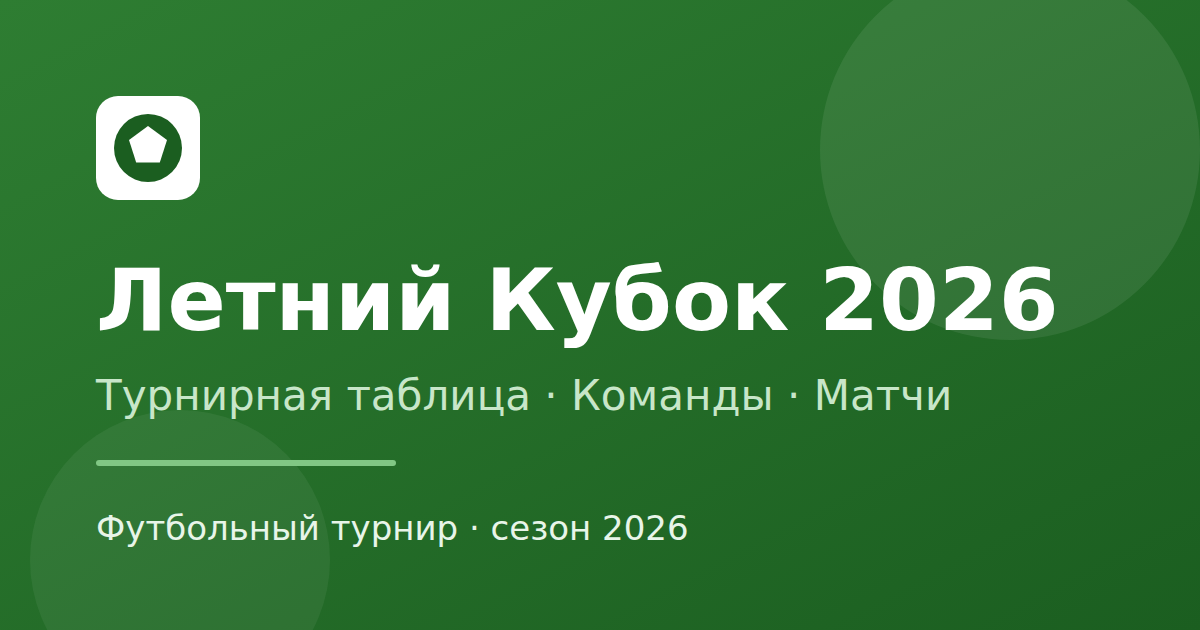
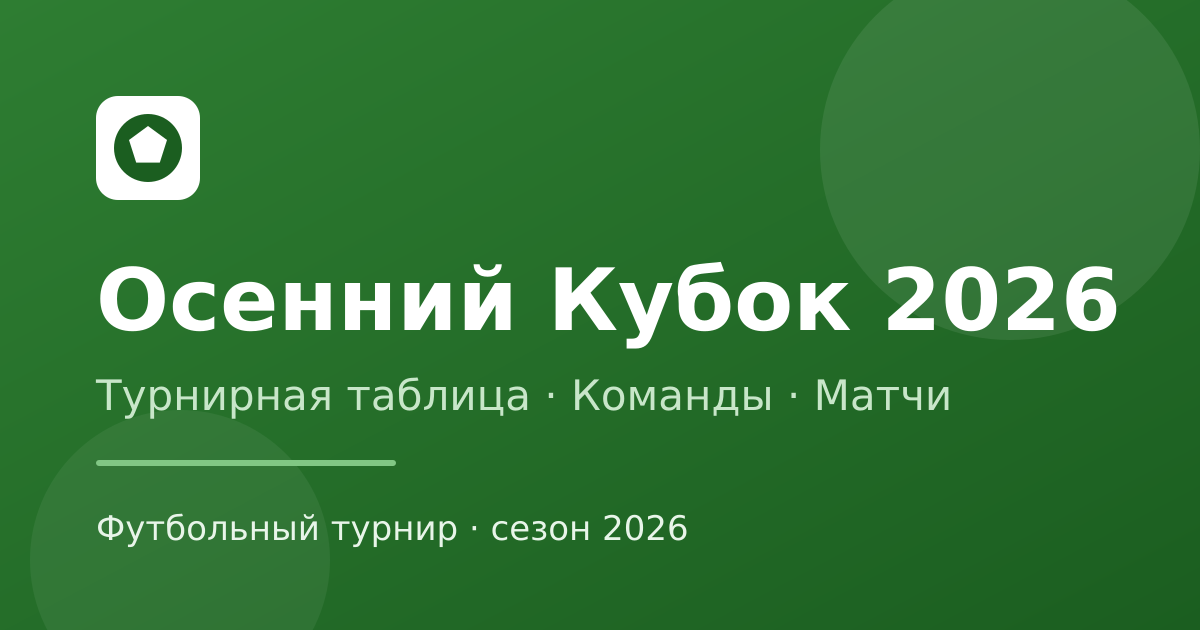
Название турнира изменено: «Летний Кубок» → «Осенний Кубок»
Заменено во всех местах: заголовок страницы (шапка и баннер на главной), описание для поиска,\nзаголовок и описание предпросмотра в соцсетях, подпись турнирной таблицы (для скринридеров),\nподвал сайта и картинка предпросмотра assets/og-image.png (перерисована из og-image.svg).\nПадежи учтены: «Осеннего Кубка 2026». Старое название не встречается ни в одном файле.\nПроверено на 390px и на 17 ширинах (320-1440): переполнения нет, картинка отдаётся как image/png.

diff --git a/index.html b/index.html
@@ -10,15 +10,15 @@
     <title>Футбольный турнир 2026 — таблица, команды, матчи</title>
 
     <!-- SEO и предпросмотр в соцсетях -->
-    <meta name="description" content="Летний Кубок 2026: турнирная таблица, состав команд, расписание и результаты матчей. Данные обновляются через панель администратора.">
+    <meta name="description" content="Осенний Кубок 2026: турнирная таблица, состав команд, расписание и результаты матчей. Данные обновляются через панель администратора.">
     <meta name="theme-color" content="#1b5e20">
     <meta name="color-scheme" content="light">
     <link rel="canonical" href="./">
     <meta property="og:type" content="website">
     <meta property="og:locale" content="ru_RU">
     <meta property="og:site_name" content="Футбольный турнир 2026">
-    <meta property="og:title" content="Летний Кубок 2026 — футбольный турнир">
-    <meta property="og:description" content="Турнирная таблица, команды, расписание и результаты матчей Летнего Кубка 2026.">
+    <meta property="og:title" content="Осенний Кубок 2026 — футбольный турнир">
+    <meta property="og:description" content="Турнирная таблица, команды, расписание и результаты матчей Осеннего Кубка 2026.">
     <meta property="og:image" content="assets/og-image.png">
     <meta name="twitter:card" content="summary_large_image">
 
@@ -120,7 +120,7 @@
                     <span class="team-badge badge-color-1">FT</span>
                     <span>
                         <span class="block font-bold text-base sm:text-lg leading-tight">ФУТБОЛЬНЫЙ ТУРНИР</span>
-                        <span class="block text-xs sm:text-sm text-dark-600">Летний Кубок 2026</span>
+                        <span class="block text-xs sm:text-sm text-dark-600">Осенний Кубок 2026</span>
                     </span>
                 </button>
 
@@ -171,7 +171,7 @@
                 <div class="bg-gradient-to-r from-primary-700 to-primary-900 p-6 sm:p-8 text-white">
                     <div class="flex flex-col md:flex-row md:items-center md:justify-between gap-4">
                         <div>
-                            <h1 class="text-2xl sm:text-3xl font-bold mb-1">Летний Кубок 2026</h1>
+                            <h1 class="text-2xl sm:text-3xl font-bold mb-1">Осенний Кубок 2026</h1>
                             <p class="text-primary-100">Турнирная таблица, составы команд и результаты матчей</p>
                         </div>
                         <div class="flex flex-wrap gap-3">
@@ -243,7 +243,7 @@
                 </div>
                 <div class="table-wrap">
                     <table class="data-table standings-table is-compact" id="standings-table">
-                        <caption class="sr-only">Турнирная таблица Летнего Кубка 2026</caption>
+                        <caption class="sr-only">Турнирная таблица Осеннего Кубка 2026</caption>
                         <thead>
                             <tr>
                                 <th class="num" scope="col" title="Место">#</th>
@@ -541,7 +541,7 @@
 
     <footer class="bg-dark-900 text-dark-400 py-6 mt-8">
         <div class="max-w-7xl mx-auto px-4 text-center text-sm space-y-2">
-            <p>&copy; 2026 Футбольный турнир. Летний Кубок.</p>
+            <p>&copy; 2026 Футбольный турнир. Осенний Кубок.</p>
             <p class="text-xs flex flex-wrap items-center justify-center gap-2">
                 <span>Результаты обновляет администратор через
                     <button type="button" class="underline hover:text-white" data-action="navigate" data-page="admin">панель управления</button>.
